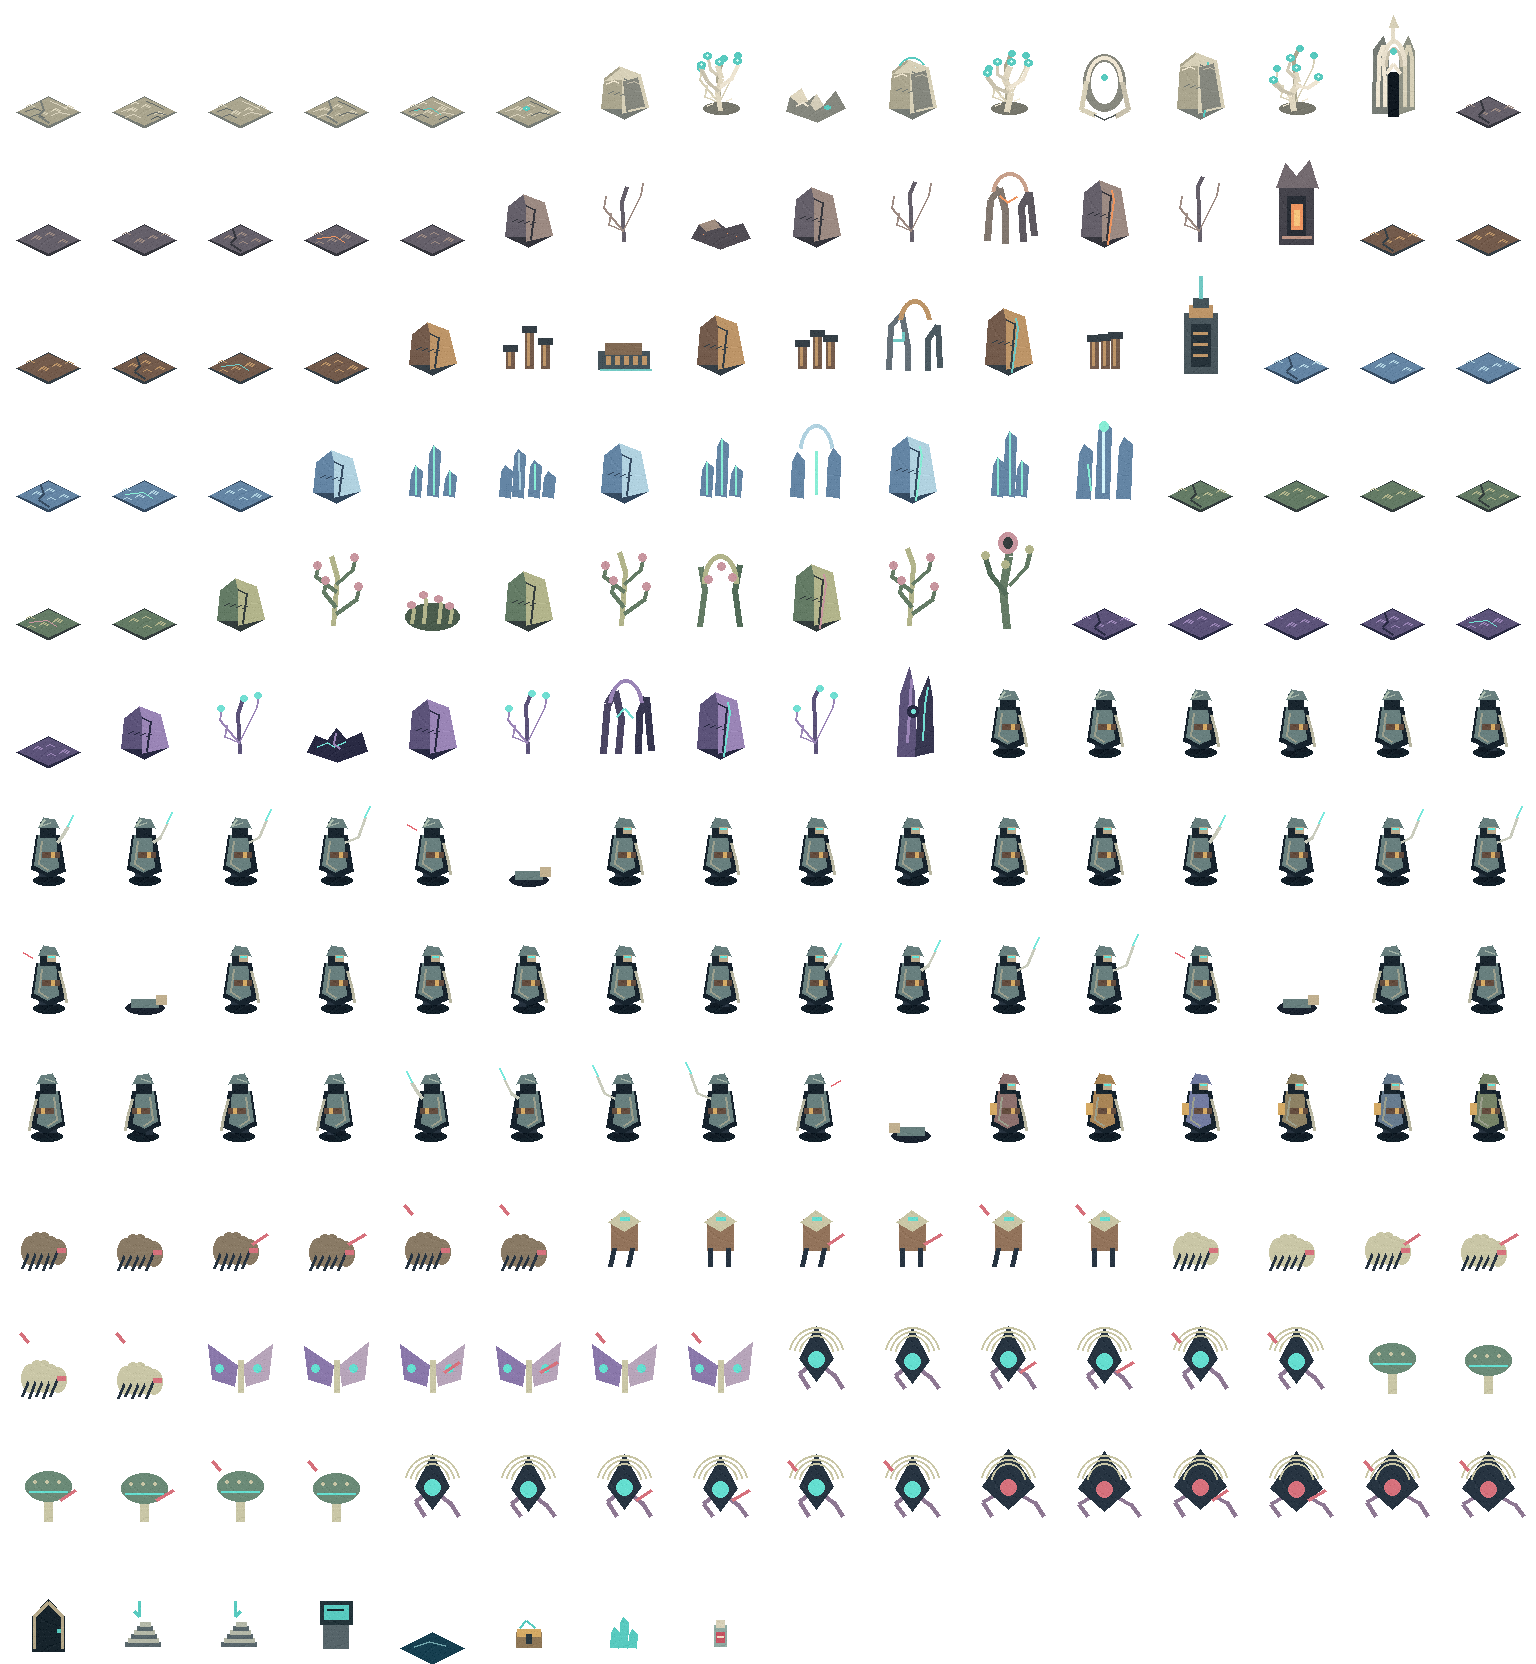
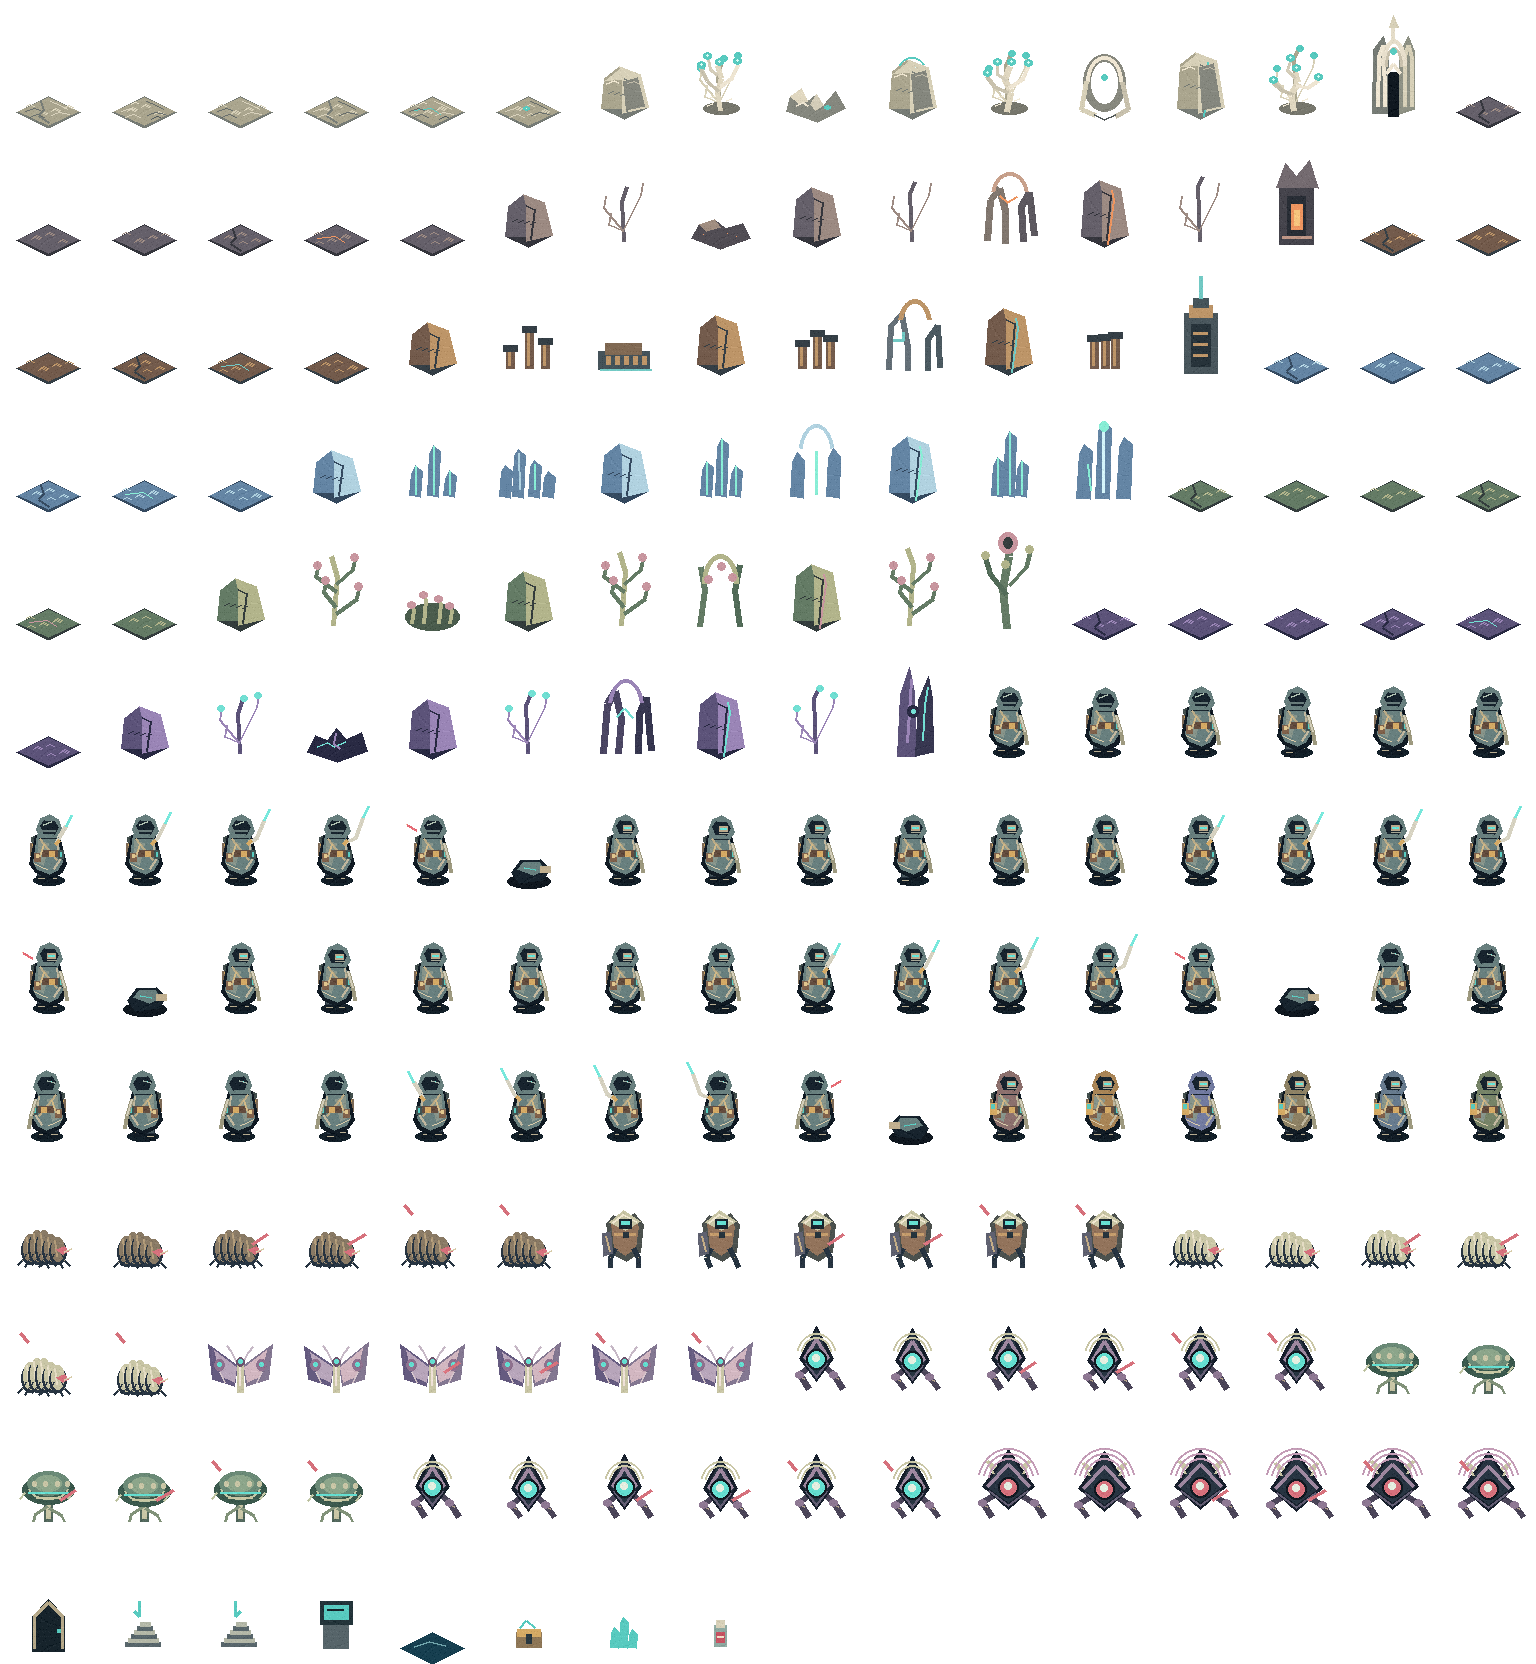
art: refine biomes, wanderer and creature silhouettes

diff --git a/scripts/art/build_isometric_assets.py b/scripts/art/build_isometric_assets.py
@@ -270,45 +270,119 @@ def architecture(d,p,v,biome):
   d.line([(30,y-4),(30,y)],fill=a);d.line([(61,y+1),(61,y+5)],fill=a)
 
 def human(d,color,pose,frame,direction,npc=False):
- # hand posed legs, cloak, face, equipment; no affine deformation
+ # Hand-posed, upright traveller: layered coat, equipment and readable gear.
  sway=[0,2,0,-2][frame%4] if pose=='walk' else 0
  if pose=='death':
-  d.ellipse((29,105,68,118),fill='#1b2430');d.rectangle((35,103,62,111),fill=color);d.rectangle((60,99,70,108),fill='#c0af8f');return
+  d.ellipse((27,106,70,120),fill='#101820')
+  poly(d,[(31,104),(40,92),(60,91),(70,101),(62,112),(39,115)],'#17232d')
+  poly(d,[(37,101),(43,94),(59,94),(64,102),(53,107)],color)
+  d.rectangle((60,98,70,104),fill='#c0af8f');d.line([(44,99),(55,101)],fill='#58cabf',width=2);return
+ bob=1 if pose=='idle' and frame%2 else 0
  d.ellipse((33,107,64,117),fill='#14212a')
- for x,step in [(42,sway),(53,-sway)]:d.rectangle((x-3,96,x+3,111+step),fill='#26323e');d.rectangle((x-4,109+step,x+5,113+step),fill='#111b24')
- poly(d,[(36,67),(59,67),(65,103),(50,109),(31,101)],'#17232d');poly(d,[(38,67),(55,67),(58,99),(47,104),(34,97)],color)
- d.line([(41,73),(38,95),(47,101)],fill='#9b9f8d',width=2)
- d.rectangle((40,54,55,69),fill='#19252e');poly(d,[(38,59),(43,49),(54,51),(59,60)],color)
- if direction=='north':d.line([(40,57),(45,51)],fill='#b0c1b1',width=2)
- if direction in ['south','east']:d.rectangle((47,59,55,65),fill='#baa88b');d.line([(48,60),(54,60)],fill='#64e6da',width=2)
- else:d.line([(41,57),(50,54)],fill='#a1b1a5',width=2)
- d.rectangle((42,84,59,89),fill='#634c3e');d.rectangle((51,84,54,89),fill='#d5aa65')
+ # Split legs, wrapped boots and small metal shin plates.
+ for x,step in [(41,sway),(53,-sway)]:
+  d.rectangle((x-4,94+bob,x+3,109+step+bob),fill='#26323e')
+  d.rectangle((x-3,97+bob,x+1,106+step+bob),fill='#45545a')
+  d.rectangle((x-5,108+step+bob,x+5,114+step+bob),fill='#111b24')
+  d.line([(x-3,110+step+bob),(x+3,110+step+bob)],fill='#b9ae92',width=1)
+ # Backpack and layered weather cloak.
+ d.polygon([(31,69),(37,66),(40,91),(34,96)],fill='#3e4a49')
+ d.rectangle((30,75,37,87),fill='#7b6854');d.line([(32,76),(35,76)],fill='#d5aa65',width=2)
+ poly(d,[(35,67),(59,67),(66,95),(62,104),(50,111),(35,104),(29,96)],'#111b24')
+ poly(d,[(37,66),(56,67),(62,94),(57,102),(49,106),(37,101),(33,94)],color)
+ poly(d,[(38,72),(48,75),(43,97),(37,94)],'#87948a')
+ d.line([(56,72),(59,92),(53,101)],fill='#c1b89f',width=2)
+ d.line([(34,95),(41,99),(47,101)],fill='#d6c8a7',width=1)
+ # Hood and face mask; orientation changes the visible eye and profile.
+ d.rectangle((39,53+bob,57,70+bob),fill='#19252e')
+ poly(d,[(36,61+bob),(40,50+bob),(49,46+bob),(58,51+bob),(62,63+bob),(57,70+bob),(39,69+bob)],color)
+ poly(d,[(40,57+bob),(44,52+bob),(54,53+bob),(58,59+bob),(54,66+bob),(43,65+bob)],'#17232d')
+ if direction in ['south','east']:
+  d.rectangle((47,57+bob,55,62+bob),fill='#baa88b')
+  d.line([(48,59+bob),(54,59+bob)],fill='#64e6da',width=2)
+  d.line([(47,64+bob),(56,64+bob)],fill='#a5a695',width=1)
+ elif direction=='west':
+  d.line([(41,58+bob),(48,56+bob)],fill='#a1b1a5',width=2)
+  d.point((44,57+bob),fill='#64e6da')
+ else:
+  d.line([(43,56+bob),(51,53+bob)],fill='#b0c1b1',width=2)
+  d.line([(39,62+bob),(55,62+bob)],fill='#687b7a',width=2)
+ # Harness, buckles, field pouches and mutation ampoule.
+ d.line([(39,70),(56,91)],fill='#b9aa86',width=2)
+ d.rectangle((42,82,59,88),fill='#634c3e');d.rectangle((49,83,54,88),fill='#d5aa65')
+ d.rectangle((34,85,40,93),fill='#80624c');d.rectangle((36,86,38,89),fill='#e0c68e')
+ d.rectangle((58,82,63,90),fill='#425352');d.line([(60,84),(60,88)],fill='#58cabf',width=2)
+ d.line([(43,76),(39,88)],fill='#d0b887',width=2)
  if pose=='attack':
-  x=61+frame*3;d.line([(57,74),(x,69),(x+7,58-frame*3)],fill='#c9cbbc',width=3);d.line([(x+7,58-frame*3),(x+12,47-frame*3)],fill='#77e7db',width=2)
- else:d.line([(59,75),(64,93),(66,106)],fill='#b8b6a1',width=3)
- if npc:d.rectangle((30,79,36,90),fill='#d5aa65')
- if pose=='hurt':d.line([(32,62),(23,57)],fill='#e56b75',width=2)
+  x=59+frame*3;d.line([(57,74),(x,69),(x+7,58-frame*3)],fill='#d6d2c1',width=4)
+  d.line([(x+7,58-frame*3),(x+12,47-frame*3)],fill='#77e7db',width=3)
+  d.line([(55,76),(59,72)],fill='#d5aa65',width=3)
+ else:
+  d.line([(59,75),(64,91),(66,104)],fill='#9d997f',width=4)
+  d.line([(59,75),(64,91)],fill='#d3ceb9',width=2)
+ if npc:d.rectangle((30,79,36,90),fill='#d5aa65');d.rectangle((31,80,34,84),fill='#58cabf')
+ if pose=='hurt':d.line([(32,62),(23,57)],fill='#e56b75',width=3);d.point((22,56),fill='#f5c0a4')
 def enemy(d,kind,pose,f):
  bone='#c9c6a6';dark='#273441';red='#d6717c';cyan='#64ded0';y=0 if f%2==0 else 2
  if kind in ['crawler','larva']:
   for i in range(5):
-   x=29+i*7;h=12+int(math.sin(i)*5);d.ellipse((x-8,96-h+y,x+9,112+y),fill=bone if kind=='larva' else '#897a65');d.line([(x,99+y),(x-7,116+(f+i)%2*2)],fill=dark,width=3)
-  d.rectangle((57,96+y,65,100+y),fill=red)
+   x=29+i*7;h=12+int(math.sin(i)*5)
+   shell=bone if kind=='larva' else '#897a65'
+   d.ellipse((x-8,96-h+y,x+9,112+y),fill=dark)
+   d.ellipse((x-6,94-h+y,x+7,109+y),fill=shell)
+   d.line([(x-3,97-h+y),(x-1,104+y)],fill='#e4dcc4' if kind=='larva' else '#b29c7a',width=2)
+   for side in [-1,1]:
+    knee=x+side*7;foot=x+side*12
+    d.line([(x+side*4,102+y),(knee,108+y),(foot,113+(f+i)%2*2)],fill=dark,width=2)
+    d.point((knee,108+y),fill='#b6aa91')
+  d.polygon([(56,97+y),(64,94+y),(68,99+y),(62,102+y)],fill=red)
+  d.line([(64,99+y),(71,96+y)],fill='#d7cba9',width=2)
  elif kind=='moth':
-  poly(d,[(45,85),(16,64+y),(20,99),(42,106)],'#8a78aa');poly(d,[(51,85),(80,64-y),(76,99),(54,106)],'#b7a5ba');d.line([(48,80),(48,112)],fill=bone,width=6)
-  for x in [27,65]:d.ellipse((x-4,84,x+4,92),fill=cyan)
+  poly(d,[(45,85),(16,64+y),(20,99),(42,106)],'#655b80');poly(d,[(51,85),(80,64-y),(76,99),(54,106)],'#837791')
+  poly(d,[(44,87),(22,70+y),(29,96),(42,102)],'#b7a5ba');poly(d,[(52,87),(74,70-y),(68,96),(55,102)],'#d2b7c1')
+  for x,sgn in [(27,1),(69,-1)]:
+   d.ellipse((x-5,79,x+5,90),fill='#8e718e');d.ellipse((x-2,82,x+2,86),fill=cyan)
+   d.line([(x,92),(x+sgn*5,102)],fill='#d4c4ca',width=2)
+  d.line([(48,79),(48,112)],fill=bone,width=7);d.line([(47,84),(47,105)],fill='#eee0d7',width=2)
+  d.line([(45,82),(39,71),(35,66)],fill='#c6b8c6',width=2);d.line([(51,82),(57,71),(61,66)],fill='#c6b8c6',width=2)
+  d.ellipse((44,77,52,86),fill='#6c536d');d.ellipse((46,79,50,83),fill=cyan)
  elif kind=='spore':
-  d.rectangle((44,86,52,113),fill=bone);d.ellipse((25,63+y,71,93+y),fill='#6b8a77');d.line([(29,83+y),(67,83+y)],fill=cyan,width=2)
-  for x in [33,45,57]:d.ellipse((x,72+y,x+3,75+y),fill=bone)
+  d.rectangle((44,86,52,113),fill='#52675c');d.rectangle((46,89,50,110),fill=bone)
+  d.line([(47,98),(35,106),(33,113)],fill='#82937a',width=3);d.line([(49,100),(61,107),(64,113)],fill='#82937a',width=3)
+  d.ellipse((22,67+y,74,96+y),fill='#3b594d');d.ellipse((27,63+y,69,87+y),fill='#6b8a77')
+  d.ellipse((34,67+y,61,83+y),fill='#8ca58a');d.arc((28,67+y,68,91+y),8,170,fill='#c2c7a6',width=2)
+  d.line([(28,84+y),(68,84+y)],fill=cyan,width=2);d.line([(36,89+y),(60,89+y)],fill='#c7c6a2',width=2)
+  for x in [32,43,55,65]:d.ellipse((x,73+y,x+4,78+y),fill=bone)
+  for x in [24,72]:d.line([(x,85+y),(x-5,91+y)],fill='#c2c7a6',width=2)
  elif kind in ['drone','elite','boss']:
   size=26 if kind=='boss' else 17
-  for dx in [-size,size]:d.line([(48,80+y),(48+dx,94+y),(48+dx+9,108)],fill='#8e7893',width=4)
-  poly(d,[(48,54+y-size//2),(48+size,78+y),(48,101+y),(48-size,78+y)],dark);d.ellipse((40,71+y,56,87+y),fill=red if kind=='boss' else cyan)
-  for i in range(3):d.arc((30-i*5,55-i*4,66+i*5,99+i*4),195,345,fill=bone,width=2)
+  for dx in [-size,size]:
+   d.line([(48,80+y),(48+dx,94+y),(48+dx+9,108)],fill='#4b4559',width=6)
+   d.line([(48+dx-2,95+y),(48+dx+5,98+y)],fill='#b3a18b',width=2)
+   d.ellipse((48+dx-4,91+y,48+dx+4,98+y),fill='#8e7893')
+  poly(d,[(48,54+y-size//2),(48+size,78+y),(48,101+y),(48-size,78+y)],'#171f2c')
+  poly(d,[(48,58+y-size//2),(48+size-4,78+y),(48,94+y),(48-size+4,78+y)],dark)
+  d.line([(48-size+5,78+y),(48,64+y-size//3),(48+size-5,78+y)],fill='#9d879f',width=3)
+  d.line([(48-size+6,82+y),(48,97+y),(48+size-6,82+y)],fill='#625d73',width=2)
+  d.ellipse((38,69+y,58,89+y),fill='#101820')
+  d.ellipse((40,71+y,56,87+y),fill=red if kind=='boss' else cyan)
+  d.ellipse((44,74+y,51,81+y),fill='#e4eee0')
+  if kind=='boss':
+   d.line([(33,65+y),(27,53+y),(35,59+y)],fill=bone,width=3);d.line([(63,65+y),(69,53+y),(61,59+y)],fill=bone,width=3)
+   for i in range(3):d.arc((27-i*5,50-i*5,69+i*5,101+i*5),195,345,fill='#c49db7',width=2)
+  else:
+   for i in range(2):d.arc((32-i*4,57-i*4,64+i*4,96+i*4),195,345,fill=bone,width=2)
  else:
-  d.rectangle((35,67,61,98),fill='#92735b');poly(d,[(32,70),(47,58),(64,69),(48,79)],bone)
-  for x in [38,56]:d.line([(x,96),(x-4+f%2*4,114)],fill=dark,width=5)
-  d.rectangle((44,65,53,68),fill=cyan)
+  # Sentinel: layered mask, shoulder plates and a damaged shield silhouette.
+  poly(d,[(30,71),(37,63),(47,67),(58,61),(67,72),(64,100),(50,109),(34,101)],'#4c514e')
+  poly(d,[(35,72),(42,66),(49,70),(57,65),(62,74),(59,96),(49,103),(38,96)],'#92735b')
+  poly(d,[(33,70),(47,58),(64,69),(49,78)],bone);d.line([(37,70),(47,62),(60,69)],fill='#f0e7d0',width=2)
+  d.rectangle((43,67,55,76),fill='#19252e');d.rectangle((45,69,53,72),fill=cyan)
+  d.line([(38,82),(59,82)],fill='#c49c6c',width=3);d.rectangle((47,80,52,85),fill='#25333c')
+  for x,dx in [(39,-5),(57,5)]:
+   d.line([(x,96),(x+dx,105),(x+dx+f%2*4,115)],fill=dark,width=5)
+   d.point((x+dx,105),fill='#bba98a')
+  poly(d,[(26,81),(34,79),(36,101),(27,104)],'#5f6170');d.line([(29,84),(33,99)],fill='#c5ae88',width=2)
  if pose=='attack':d.line([(60,92),(75+f*2,82)],fill=red,width=3)
  if pose=='hurt':d.line([(28,62),(20,53)],fill=red,width=3)
 for b,p in palettes.items():
